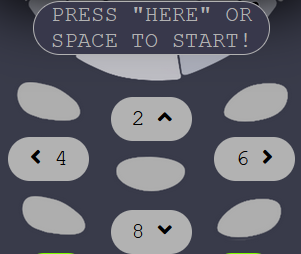
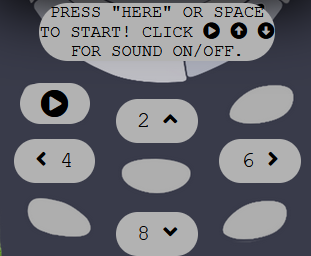
add content to readme

diff --git a/assets/css/style.css b/assets/css/style.css
@@ -102,7 +102,7 @@ header {
   }
 
 .startBtnBefore {
-    border: 2px solid lawngreen /* rgb(0, 128, 128, 0.8) */;
+    border: 2px solid rgb(124, 252, 0) /* rgb(0, 128, 128, 0.8) */;
     background-color: rgb(1, 200, 200);
     /* background-color: rgb(253, 190, 0); */
 }
@@ -148,7 +148,7 @@ button:hover {
     background-color: rgb(56, 56, 75);
     color: rgb(178, 178, 178);
     cursor: pointer;
-    border: 1px solid rgb(178, 178, 178);;
+    border: 1px solid rgb(178, 178, 178);
 }
 
   #middle-buttons {

diff --git a/README.md b/README.md
@@ -58,11 +58,13 @@ As a demonstration, the player already wins when he has reached 500 points.
 
         - __The Control Area__
 
-            - The control panel contains the start button and the control buttons of the snake for mobile devices (phones, tablets).Users on devices with a keyboard will be more likely to use the keyboard. The start button contains instructions on how to start the game. 
-            - It serves as a user manual and as an intermediate step between the "Game Over Status" and the start of the game. This prevents the end screen ("Game Over" or "You Win") from being clicked away immediately by intuitively continuing to play (a direction key is pressed).
-            - The start button changes color by mouse over and by clicking.
-            - The control button change color by mouse over.
-            - The Control Area idea and basic code is taken form the **Code-Institute Love-Maths-Project** but has been modified.
+            - The control panel contains the start button, the sound button and the control buttons of the snake for mobile devices (phones, tablets).Users on devices with a keyboard will be more likely to use the keyboard. 
+                - The start button contains instructions on how to start the game. 
+                - It serves as a user manual and as an intermediate step between the "Game Over Status" and the start of the game. This prevents the end screen ("Game Over" or "You Win") from being clicked away immediately by intuitively continuing to play (a direction key is pressed).
+                - The start button changes color by mouse over and by clicking.
+                - The sound button allows the user to mute or reactivate all sounds.
+                - The control button change color by mouse over.
+                - The Control Area idea and basic code is taken form the **Code-Institute Love-Maths-Project** but has been modified.
 
         - Control Area Image:<br>
             <img src="assets/images/screenshot-control-area.png" alt="Control Area">
@@ -130,26 +132,24 @@ As a demonstration, the player already wins when he has reached 500 points.
 - user story besed test cases (screenshots):
 
   - As a visiting user, I can easily understand the main purpose of the game. 
-      - Heading, Start Button, Animals
-      <img src="assets/images/screenshot-userstory-whats-the-goal.png" alt="Canvas and Start Button">
+      - Heading, Start Button, Animals<br>
+        <img src="assets/images/screenshot-userstory-whats-the-goal.png" alt="Canvas and Start Button">
 
   - As a visiting user, I can navigate the snake without any problems.
-      - Start Butten (after klicking) keybord, arrow/number buttons
-      <img src="assets/images/screenshot-userstory-what-to-do.png" alt="Control-Area">
+      - Start Butten (after klicking) keybord, arrow/number buttons<br>
+        <img src="assets/images/screenshot-userstory-what-to-do.png" alt="Control-Area">
 
   - As a visiting user, I can learn to navigate the snake more efficiently to earn more points.
-      - User experience. Users get more points.
-      <img src="assets/images/screenshot-userstory-performance.png" alt="Score">
+      - User experience. Users get more points.<br>
+        <img src="assets/images/screenshot-userstory-performance.png" alt="Score">
 
   - As a visiting user, I can easily get information about the company through their social media links.
-      - Footer with social media links.
-      <img src="assets/images/screenshot-footer.png" alt="Footer">
+      - Footer with social media links.<br>
+        <img src="assets/images/screenshot-footer.png" alt="Footer">
 
 
 
 ### Unfixed Bugs
-
- - No Bugs are unfixed.
 
  - There were a a lot of bugs at the beginning. Some have taken hours to resolve. 
   - For example, I could quickly create a new snake part. But I couldn't make it to follow the snake head.
@@ -186,6 +186,12 @@ As a demonstration, the player already wins when he has reached 500 points.
     addImage(img.x, img.y);}
      - function addImage(x, y) {
      ctx.drawImage(document.getElementById(rId), x * cellWidth, y * cellHight, cellWidth+1, cellHight+1);}
+
+ - It was difficult to prevent the snake from turning 180 degrees on the same line. For example, if you press up and right very quickly after going left in advance, the snake will turn on the same line. This happens especially in level 1 when the snake moves slowly. Unfortunately nobody could help me with this problem. Nevertheless, I have practically fixed it by making changes of direction in level 1 only possible with a time delay (many other things have also been tried). The snake reacts with a slight time delay when changing direction. The problem almost never occurs anymore. However, if you force it strongly, you can still cause the bug.
+  - if (direction && e.keyCode == 39 && direction != 'LEFT') {
+            if (document.getElementById('level').innerText == 1) {
+                setTimeout(() => {direction = 'RIGHT';}, 130)
+        } else {direction = 'RIGHT';}
    
 
 ## Deployment
@@ -204,17 +210,18 @@ The live link can be found [here](https://danio86.github.io/Snake-2001/)
 
 ### Content
 
-- Instructions on how to implement form validation on the Login, Sign Up and Sign Up Mistake page was taken from [Code Institute - Love Running Project](https://learn.codeinstitute.net/courses/course-v1:CodeInstitute+LR101+2021_T1/courseware/4a07c57382724cfda5834497317f24d5/4d85cd1a2c57485abbd8ccec8c00732c/)
-- All icons were taken from [Font Awesome](https://fontawesome.com/)
-- Font styles were taken from [Google Fonts](https://fonts.googleapis.com)
-- The basic code of the header dropdown menu is taken from the following website, but has been changed. [w3schools](https://www.w3schools.com/howto/howto_css_dropdown.asp)
-- The basic code of the clickable burger button menu is taken from the following website, but has been changed. [Álvaro Trigo](https://alvarotrigo.com/blog/hamburger-menu-css/)
-- The basic code of the slide show is taken from the following website, but has been modified. [Specific YouTube Tutorial](https://www.youtube.com/watch?v=0wvrlOyGlq0)
-- Instructions on how to implement a google map into a website was taken from [Code Institute - Coders Coffeehouse Project](https://learn.codeinstitute.net/courses/course-v1:CodeInstitute+HE101+2020/courseware/fcc67a894619420399970ae84fc4802f/13db720675f94dbca6b0fe79467628ca/)
-- Instructions on how to implement links into the footer was taken from [Code Institute - Love Running Project](https://learn.codeinstitute.net/courses/course-v1:CodeInstitute+LR101+2021_T1/courseware/4a07c57382724cfda5834497317f24d5/e6d4cda2bc08458ba94d2092be9bad3a/)
-- Instructions on how to implement Textblocks into Images or maps was taken from [Code Institute - Coders Coffeehouse Project](https://learn.codeinstitute.net/courses/course-v1:CodeInstitute+HE101+2020/courseware/fcc67a894619420399970ae84fc4802f/13db720675f94dbca6b0fe79467628ca/)
-- Instructions on how to center content vertically and horizontally was taken from [w3schools](https://www.w3schools.com/howto/howto_css_center-vertical.asp)
-- The code for the password	confirmation is taken from [Codepen](https://codepen.io/diegoleme/pen/qBpyvr)
+- Instructions on how to implement clickable buttons and keyboard shortcuts and how to connect between HTML, CSS and Javascript were taken from Code Institute - Love Maths project. [Code Institute - Love Running Project](https://learn.codeinstitute.net/courses/course-v1:CodeInstitute+LM101+2021_T1/courseware/2d651bf3f23e48aeb9b9218871912b2e/234519d86b76411aa181e76a55dabe70/)
+
+- The basic code of the canvas playingfield and how to implement images into canvas is taken from the following website, but has been changed. [w3schools](https://www.w3schools.com/html/html5_canvas.asp)
+- Basic functions inside the Canvas (how the snake moves, grows) were taken from the following website.[Specific YouTube Tutorial](https://www.youtube.com/watch?v=niD3gx4BI9A&t=4505s)
+- Basic functions inside the Canvas (how moving and drawing functions are constantly repeat or how they are called in specific time frames) is taken from the following websit.[Specific YouTube Tutorial](https://www.youtube.com/watch?v=7Azlj0f9vas)
+- Instructions needed for the score counter (for loops, if statements)  were taken from were taken from [Code Institute - Javascript - Lectures](https://learn.codeinstitute.net/courses/course-v1:CodeInstitute+LMR101+2021_T1/courseware/73e9c0413ead4a21b389e33c77706102/82c33b8076b04831ab06d60299e57d8d/)
+- Instructions on how to implement links into the footer were taken from [Code Institute - Love Running Project](https://learn.codeinstitute.net/courses/course-v1:CodeInstitute+LR101+2021_T1/courseware/4a07c57382724cfda5834497317f24d5/e6d4cda2bc08458ba94d2092be9bad3a/)
+- Instructions on how to implement sound and soundeffects were taken from [Go Make Things ](https://gomakethings.com/how-to-play-a-sound-with-javascript/)
+- Instructions on how to implement sound mute functions were taken from [w3schools](https://www.w3schools.com/jsref/prop_audio_paused.asp)
+- Images were edited (scaled (only favicon) and transparencies)  with a free software [GIMP](https://www.gimp.org/)
+- Images were edited (scaled)  with a free software [Microsoft Paint](https://apps.microsoft.com/store/detail/paint/9PCFS5B6T72H?hl=en-us&gl=us)
+- Sounds were converted to mp3 with free online converter [123apps](https://online-audio-converter.com/de/)
 
 - Color-Scheme
   <img src="assets/images/color-scheme.png" alt="Color Scheme">
@@ -227,8 +234,9 @@ Because these images have not been purchased, they are not legally commercially 
 
 - All Sounds are from Open Source sites [pixabay](https://pixabay.com/de/sound-effects/), [mixkit](https://mixkit.co/free-sound-effects/)
 
+- All icons were taken from [Font Awesome](https://fontawesome.com/)
 
-
+- Font styles were taken from [Google Fonts](https://fonts.google.com/)
 
 
 
